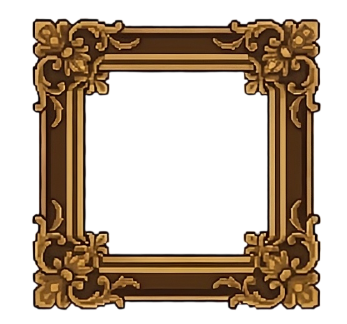
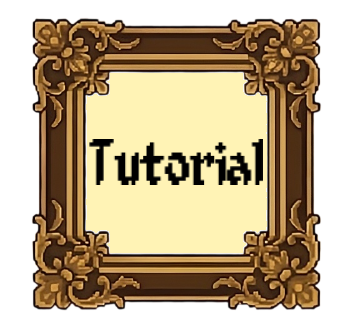
welcome_page updated

Changed region(s): [[0.2305, 0.216, 0.7781, 0.8025]]

diff --git a/Website/static/welcome.css b/Website/static/welcome.css
@@ -1,3 +1,13 @@
+@import url(https://fonts.googleapis.com/css?family=Anonymous+Pro);
+@font-face {
+    font-family: 'TheFont';
+    
+    /* Variable fonts like the one linked below allow for fine-tuned control over various font properties dynamically via CSS, such as weight ('wght'), width ('wdth'), etc. This link is where your web browser will download the font from. */
+    /* Insert the link to your custom variable font */
+    src: url("https://garet.typeforward.com/assets/fonts/shared/TFMixVF.woff2")
+      format('woff2'); 
+    }
+
 html, body {
     height: 100%;
     margin: 0;
@@ -43,7 +53,7 @@ p {
     justify-content: center;
     align-items: center;
     margin-left: 250px;
-    margin-right: 50px;
+    margin-right: 5px;
     max-width: 90vw;
     max-height: 60vh;
     gap: 10px;
@@ -53,7 +63,7 @@ p {
     flex-wrap: wrap;
     justify-content: center;
     align-items: center;
-    margin-left: 250px;
+    margin-left: 5px;
     margin-right: 250px;
     max-width: 90vw;
     max-height: 60vh;
@@ -68,4 +78,88 @@ p {
 .frames2 img {
     width: 9vw;
     height: auto;
+}
+
+/* Button Frames */
+.button-frames {
+    display: flex;
+    flex-direction: column;
+    gap: 30px;
+}
+
+.frame-button {
+    position: relative;
+}
+
+.button-frames .frame-button:nth-child(2) img {
+    width: 12vw;
+}
+
+.frame-button img {
+    width: 9vw;
+    height: auto;
+}
+
+.transparent-btn {
+    position: absolute;
+    top: 0;
+    left: 0;
+    width: 75%;
+    height: 75%;
+
+    background: transparent;
+    border: none;
+    cursor:pointer;
+}
+
+/* Cursor */
+.cursor{
+    position: relative;
+    width: 24em;
+    margin: 0 auto;
+    border-right: 2px solid rgba(255, 255, 255, 0.75);
+    font-size: 2vh;
+    text-align: center;
+    white-space: nowrap;
+    overflow: hidden;
+    transform: translateY(-50%);   
+    margin-top: 30px; 
+    background-color: black;
+    font-family: 'Raleway', sans-serif;
+}
+/* Animation */
+.typewriter-animation {
+  animation: 
+    typewriter 5s steps(50) 1s 1 normal both, 
+    blinkingCursor 500ms steps(50) infinite normal;
+}
+@keyframes typewriter {
+  from { width: 0; }
+  to { width: 100%; }
+}
+@keyframes blinkingCursor{
+  from { border-right-color: rgba(255, 255, 255, 0.75); }
+  to { border-right-color: transparent; }
+}
+
+.breathe-text {
+    font-family: 'TheFont';
+    font-size: clamp(2vw, 5vw, 15vh);
+    color: white;
+    text-align: center;
+    display: block;
+    margin-top: 40px;
+    margin-bottom: 10px;
+    animation: letter-breathe 3s ease-in-out infinite;
+}
+@keyframes letter-breathe {
+
+    from,
+    to {
+        font-variation-settings: 'wght' 100;
+    }
+
+    50% {
+        font-variation-settings: 'wght' 900;
+    }
 }

diff --git a/Website/templates/welcome_page.html b/Website/templates/welcome_page.html
@@ -13,16 +13,33 @@
     <link id="googleFonts" href="https://fonts.googleapis.com/css2?family=Raleway:ital,wght@0,100;0,200;0,400;0,500;0,600;0,700;0,800;0,900;1,100;1,200;1,300;1,400;1,500;1,600;1,700;1,800;1,900&display=swap" rel="stylesheet" type="text/css">
     <link rel="stylesheet" href="../static/welcome.css">
 
+    <script src="../static/scripts.js" defer></script>
+
     <title>Welcome Page</title>
 </head>
 <body>
-    <h1>Welcome!</h1>
+    <span  class="breathe-text">Welcome</span>
+    <div> 
+        <!--<p class="cursor typewriter-animation"> Before Creating a User, Click on the Tutorial below...</p>-->
+    </div>
     <!--<p>This website is a Painting Recommendation System, developed as part of a Final Year Project for the B.sc in Information Technology (Honours) (Artificial Intelligence).
         Before Creating a User, click on the Tutorial to get a breif overview on how to use the website. Once you're finished Create a User to start viewing paintings.</p>-->
     <div class="frames1">
         <img src="../static/frame1p.png">
         <img src="../static/frame2p.png">
-    
+        
+        <!-- Buttons for Tutorial and Create User -->
+        <div class="button-frames">
+            <div class="frame-button">
+                <img src="../static/frame7.png">
+                <button class="transparent-btn"></button>
+            </div>
+
+            <div class="frame-button">
+                <img src="../static/frame8.png">
+                <button class="transparent-btn" data-href="{{ url_for('user_page') }}"></button>
+            </div>
+        </div>
         <div class="frames2">
             <img src="../static/frame12.png">
             <img src="../static/frame24.png">

diff --git a/Website/static/scripts.js b/Website/static/scripts.js
@@ -134,7 +134,13 @@ document.addEventListener("DOMContentLoaded", () => {
     const buttons = Array.from(document.querySelectorAll('button.layered'));
     const board_buttons = Array.from(document.querySelectorAll('button.board'));
     const allButtons = buttons.concat(board_buttons);
-
+    document.querySelectorAll('.transparent-btn').forEach(btn => {
+    
+    // Button on welcome page 
+    btn.addEventListener('click', () => {
+            window.location.href = btn.dataset.href;
+        });
+    });
     allButtons.forEach(btn => {
         btn.addEventListener('click', () => {
             // Remove active from the layered buttons collection so only one shows active

diff --git a/Website/templates/user_page.html b/Website/templates/user_page.html
@@ -13,15 +13,14 @@
     <link rel="preconnect" href="https://fonts.gstatic.com" crossorigin>
     <link href="https://fonts.googleapis.com/css2?family=Fascinate&family=UnifrakturMaguntia&display=swap" rel="stylesheet">
 
-    <link rel="stylesheet" href="../static/welcome.css">
-    <link rel="stylesheet" href="../static/styles.css">
+    <script src="../static/scripts.js" defer></script>
 
     <title>Create User</title>
 </head>
 
 <body>
     <!-- Create user, with user id, save to database -->
-
+    <p class="cursor typewriter-animation">Loading...</p>
     <!-- Paintings with year, genre, art style, ... , for cold-start-->
 
     <!-- Go to home page when ready -->

diff --git a/Website/app.py b/Website/app.py
@@ -48,6 +48,14 @@ def favourites():
 def style_transfer():
     return render_template("style_transfer.html")
 
+@app.route("/welcome_page")
+def style_transfer():
+    return render_template("welcome_page.html")
+
+@app.route("/user_page")
+def style_transfer():
+    return render_template("user_page.html")
+
 @app.route("/api/random-images/<int:n>")
 def random_images(n):
     sample = random.sample(all_images, min(n, len(all_images)))
